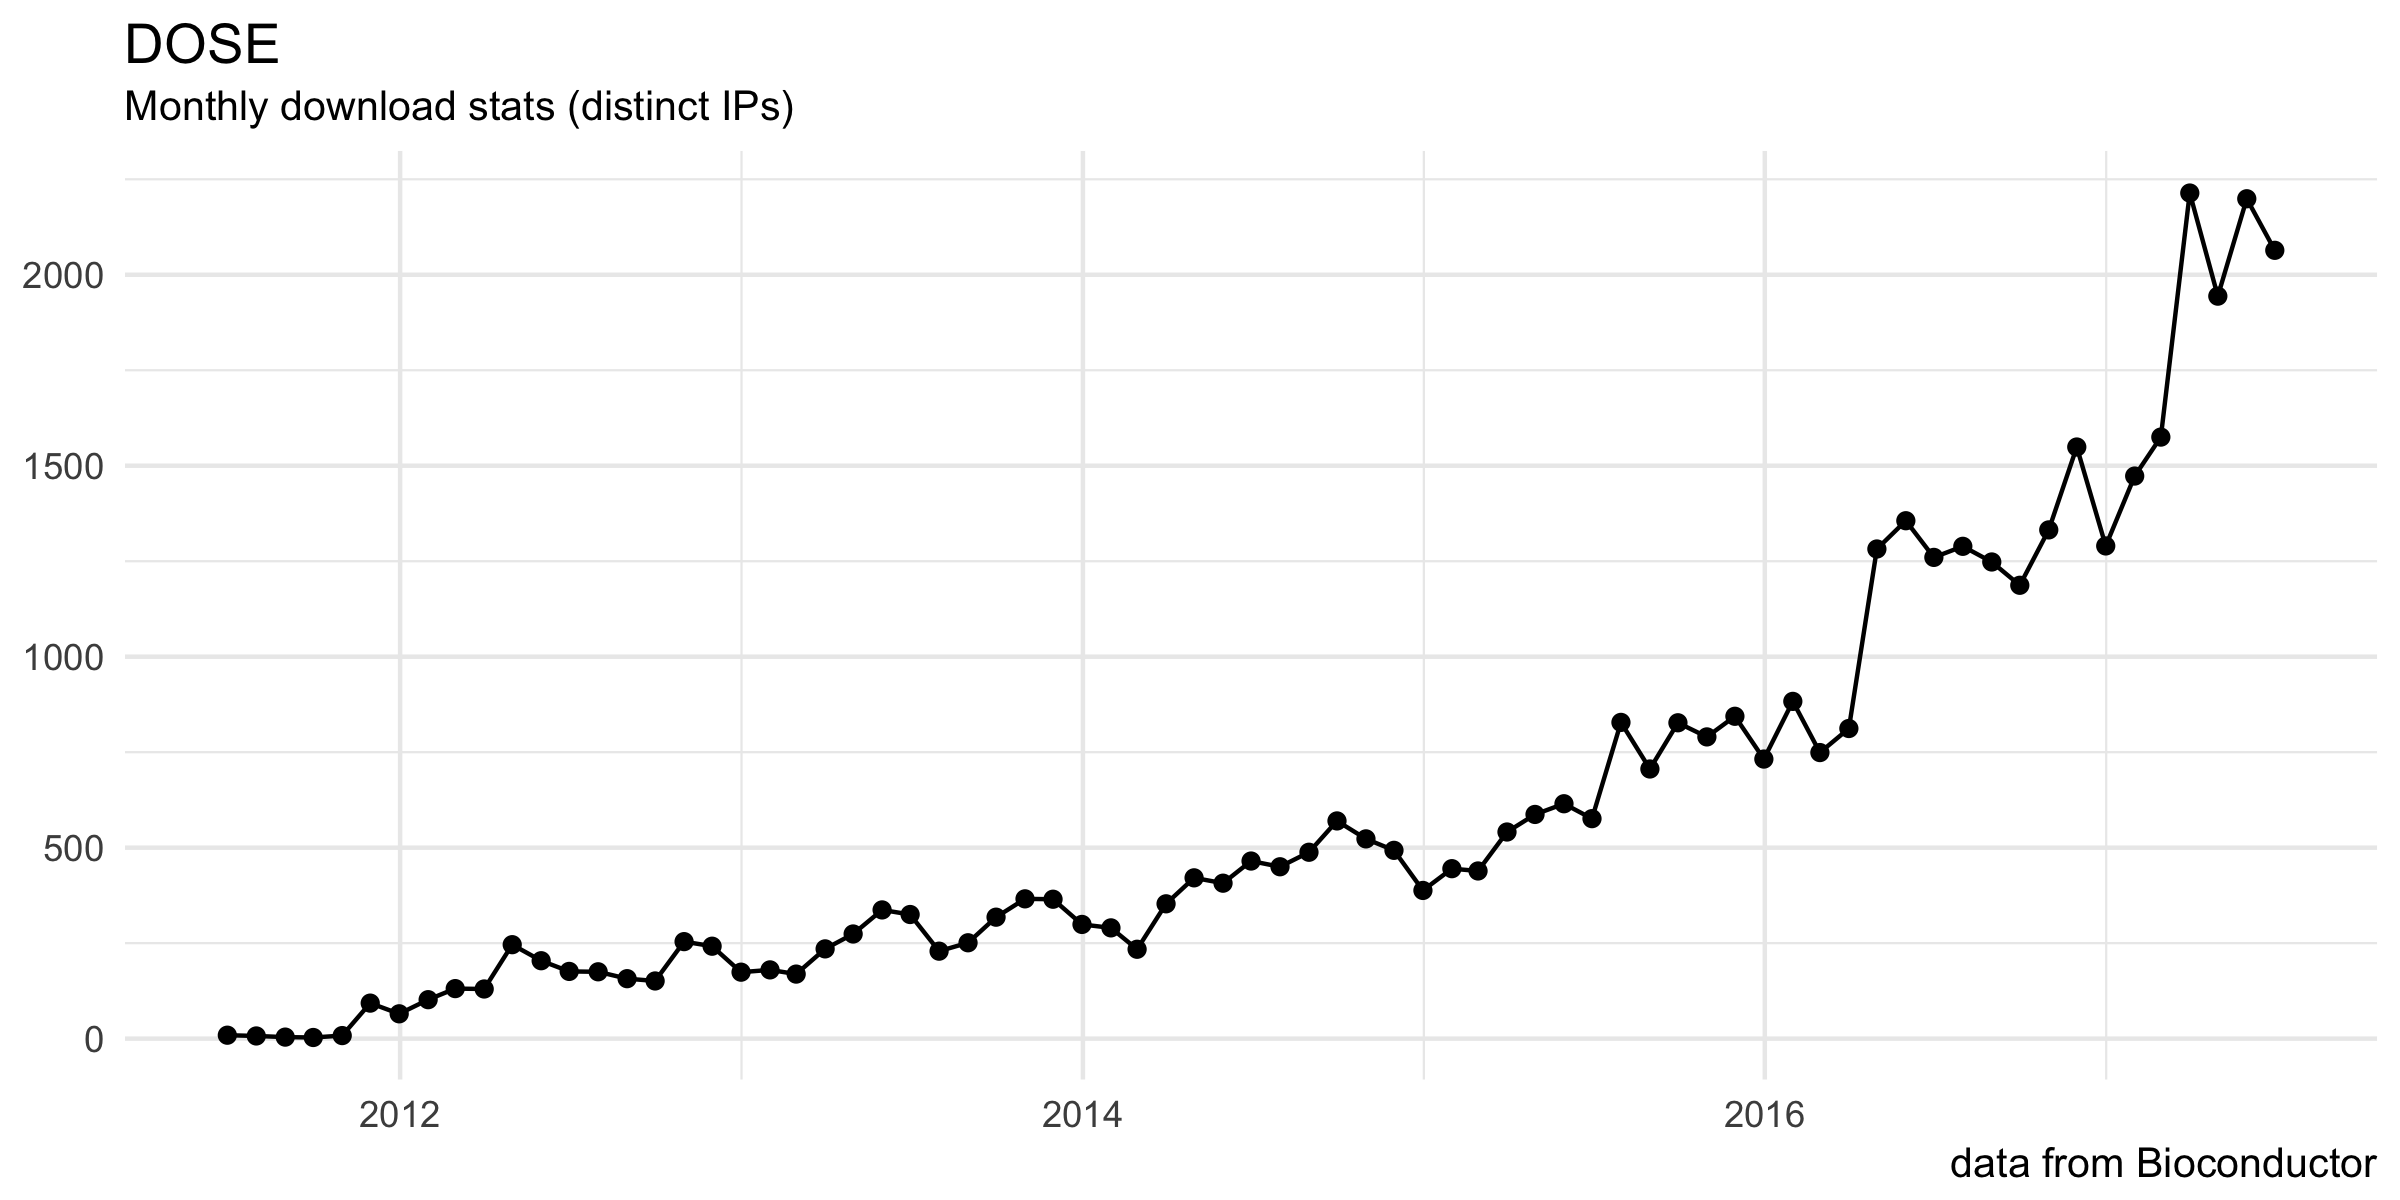
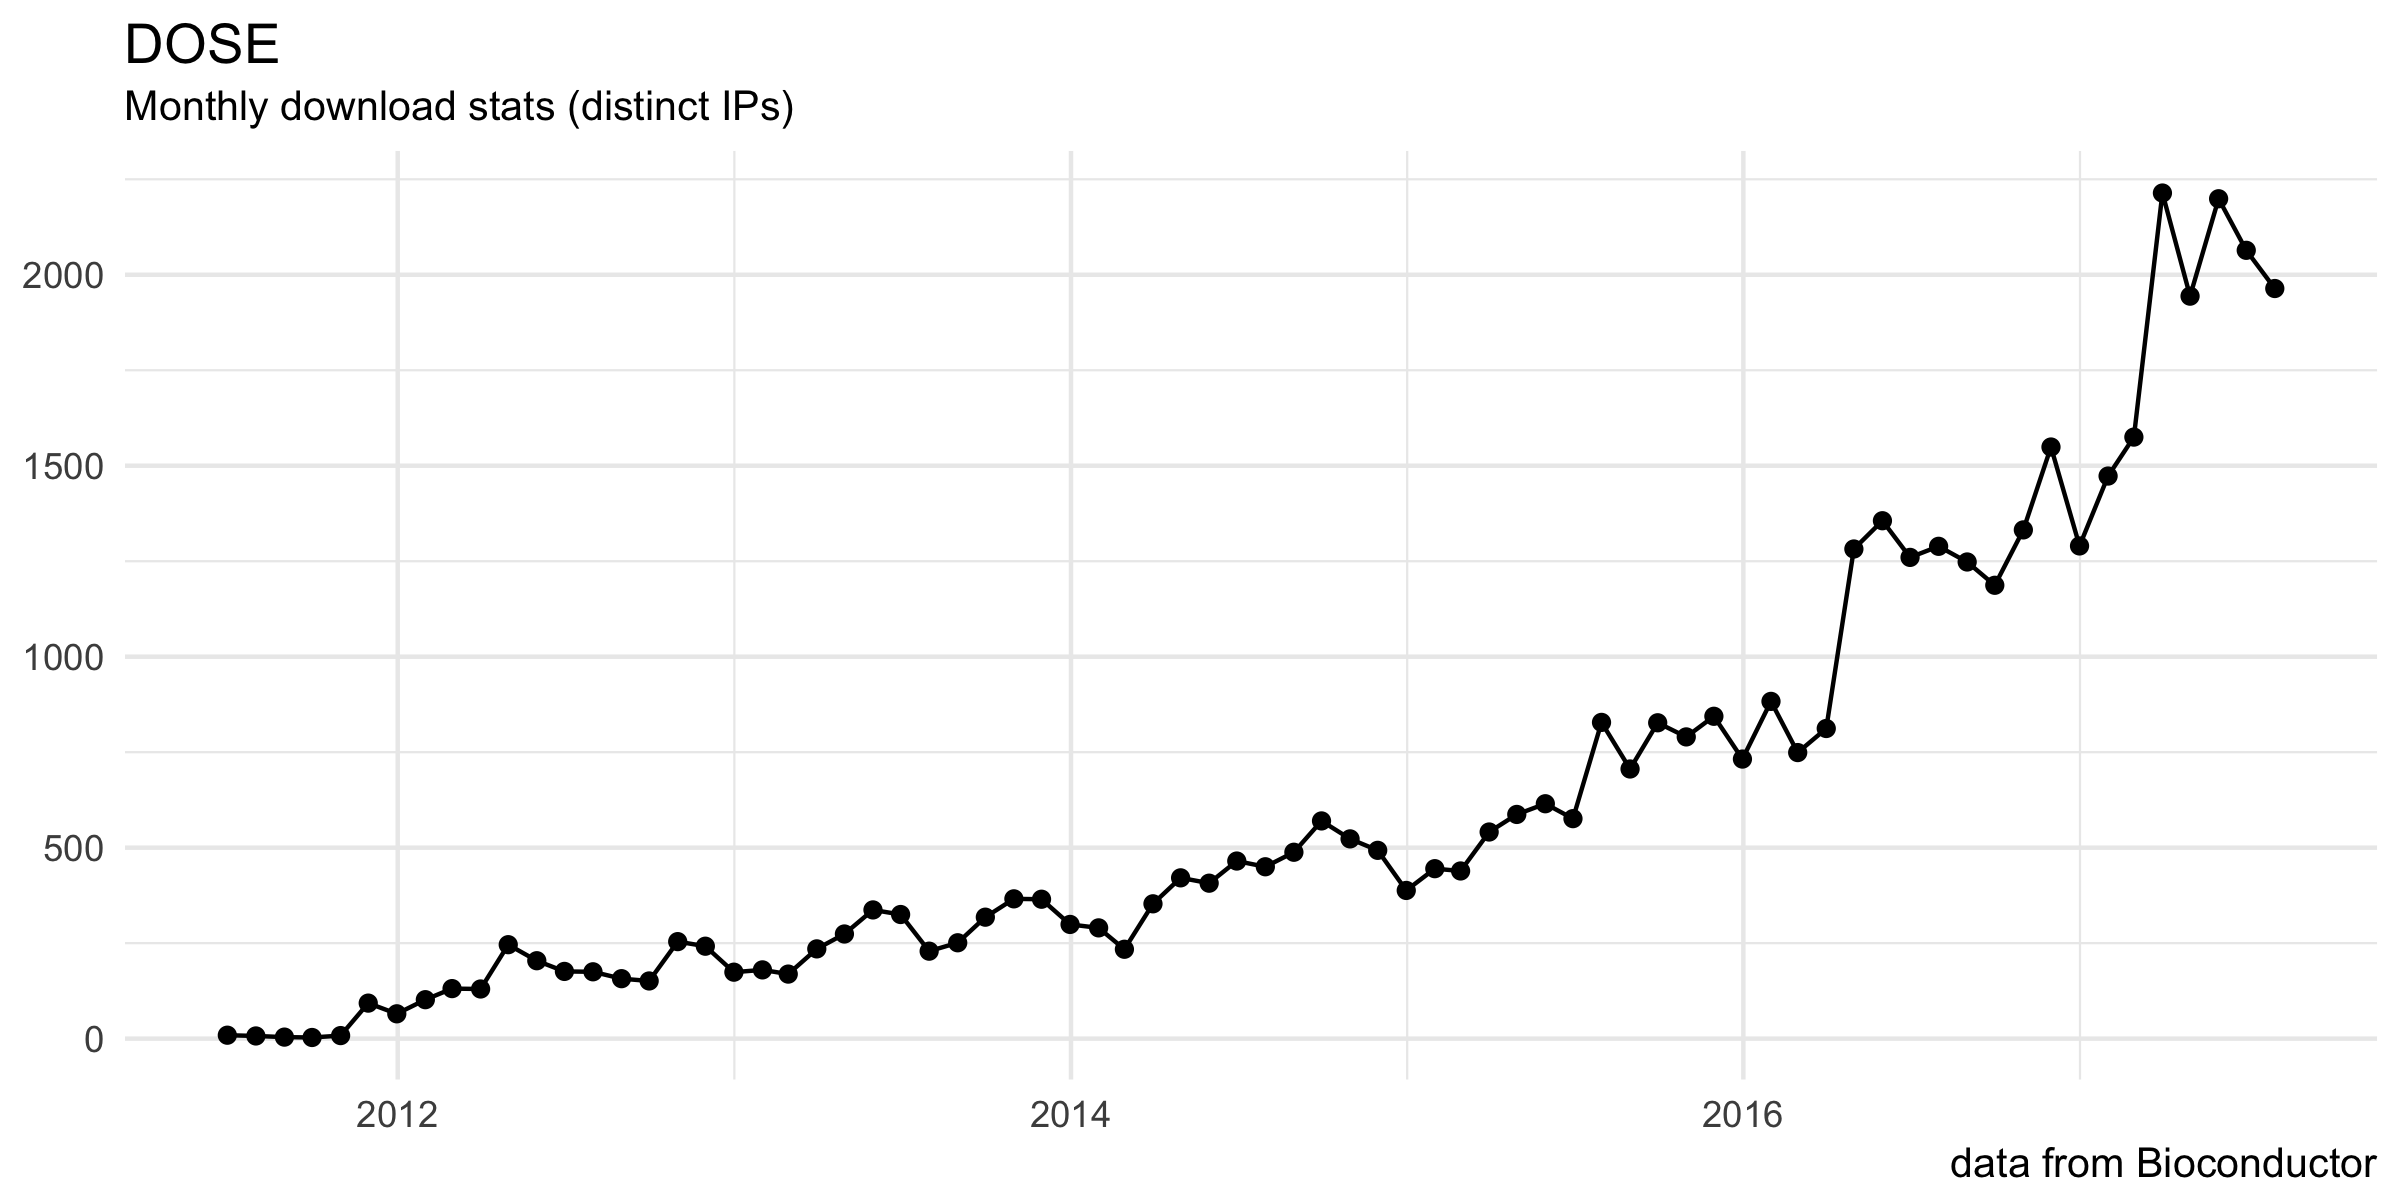
joyplot

diff --git a/README.md b/README.md
@@ -1,9 +1,9 @@
 DOSE: Disease Ontology Semantic and Enrichment analysis
 =======================================================
 
-[![](https://img.shields.io/badge/release%20version-3.2.0-green.svg?style=flat)](https://bioconductor.org/packages/DOSE) [![](https://img.shields.io/badge/devel%20version-3.3.1-green.svg?style=flat)](https://github.com/guangchuangyu/DOSE) [![Bioc](http://www.bioconductor.org/shields/years-in-bioc/DOSE.svg)](https://www.bioconductor.org/packages/devel/bioc/html/DOSE.html#since) [![](https://img.shields.io/badge/download-45489/total-blue.svg?style=flat)](https://bioconductor.org/packages/stats/bioc/DOSE) [![](https://img.shields.io/badge/download-2064/month-blue.svg?style=flat)](https://bioconductor.org/packages/stats/bioc/DOSE)
+[![](https://img.shields.io/badge/release%20version-3.2.0-green.svg?style=flat)](https://bioconductor.org/packages/DOSE) [![](https://img.shields.io/badge/devel%20version-3.3.1-green.svg?style=flat)](https://github.com/guangchuangyu/DOSE) [![Bioc](http://www.bioconductor.org/shields/years-in-bioc/DOSE.svg)](https://www.bioconductor.org/packages/devel/bioc/html/DOSE.html#since) [![](https://img.shields.io/badge/download-47194/total-blue.svg?style=flat)](https://bioconductor.org/packages/stats/bioc/DOSE) [![](https://img.shields.io/badge/download-1964/month-blue.svg?style=flat)](https://bioconductor.org/packages/stats/bioc/DOSE)
 
-[![Project Status: Active - The project has reached a stable, usable state and is being actively developed.](http://www.repostatus.org/badges/latest/active.svg)](http://www.repostatus.org/#active) [![codecov](https://codecov.io/gh/GuangchuangYu/DOSE/branch/master/graph/badge.svg)](https://codecov.io/gh/GuangchuangYu/DOSE/) [![Last-changedate](https://img.shields.io/badge/last%20change-2017--07--24-green.svg)](https://github.com/GuangchuangYu/DOSE/commits/master) [![commit](http://www.bioconductor.org/shields/commits/bioc/DOSE.svg)](https://www.bioconductor.org/packages/devel/bioc/html/DOSE.html#svn_source) [![GitHub forks](https://img.shields.io/github/forks/GuangchuangYu/DOSE.svg)](https://github.com/GuangchuangYu/DOSE/network) [![GitHub stars](https://img.shields.io/github/stars/GuangchuangYu/DOSE.svg)](https://github.com/GuangchuangYu/DOSE/stargazers)
+[![Project Status: Active - The project has reached a stable, usable state and is being actively developed.](http://www.repostatus.org/badges/latest/active.svg)](http://www.repostatus.org/#active) [![codecov](https://codecov.io/gh/GuangchuangYu/DOSE/branch/master/graph/badge.svg)](https://codecov.io/gh/GuangchuangYu/DOSE/) [![Last-changedate](https://img.shields.io/badge/last%20change-2017--08--17-green.svg)](https://github.com/GuangchuangYu/DOSE/commits/master) [![commit](http://www.bioconductor.org/shields/commits/bioc/DOSE.svg)](https://www.bioconductor.org/packages/devel/bioc/html/DOSE.html#svn_source) [![GitHub forks](https://img.shields.io/github/forks/GuangchuangYu/DOSE.svg)](https://github.com/GuangchuangYu/DOSE/network) [![GitHub stars](https://img.shields.io/github/stars/GuangchuangYu/DOSE.svg)](https://github.com/GuangchuangYu/DOSE/stargazers)
 
 [![platform](http://www.bioconductor.org/shields/availability/devel/DOSE.svg)](https://www.bioconductor.org/packages/devel/bioc/html/DOSE.html#archives) [![Build Status](http://www.bioconductor.org/shields/build/devel/bioc/DOSE.svg)](https://bioconductor.org/checkResults/devel/bioc-LATEST/DOSE/) [![Linux/Mac Travis Build Status](https://img.shields.io/travis/GuangchuangYu/DOSE/master.svg?label=Mac%20OSX%20%26%20Linux)](https://travis-ci.org/GuangchuangYu/DOSE) [![AppVeyor Build Status](https://img.shields.io/appveyor/ci/Guangchuangyu/DOSE/master.svg?label=Windows)](https://ci.appveyor.com/project/GuangchuangYu/DOSE) [![install with bioconda](https://img.shields.io/badge/install%20with-bioconda-green.svg?style=flat)](http://bioconda.github.io/recipes/bioconductor-dose/README.html)
 
@@ -35,6 +35,6 @@ Please cite the following article when using `DOSE`:
 
 ### Download stats
 
-[![download](http://www.bioconductor.org/shields/downloads/DOSE.svg)](https://bioconductor.org/packages/stats/bioc/DOSE) [![](https://img.shields.io/badge/download-45489/total-blue.svg?style=flat)](https://bioconductor.org/packages/stats/bioc/DOSE) [![](https://img.shields.io/badge/download-2064/month-blue.svg?style=flat)](https://bioconductor.org/packages/stats/bioc/DOSE)
+[![download](http://www.bioconductor.org/shields/downloads/DOSE.svg)](https://bioconductor.org/packages/stats/bioc/DOSE) [![](https://img.shields.io/badge/download-47194/total-blue.svg?style=flat)](https://bioconductor.org/packages/stats/bioc/DOSE) [![](https://img.shields.io/badge/download-1964/month-blue.svg?style=flat)](https://bioconductor.org/packages/stats/bioc/DOSE)
 
 <img src="docs/dlstats.png" width="890"/>
